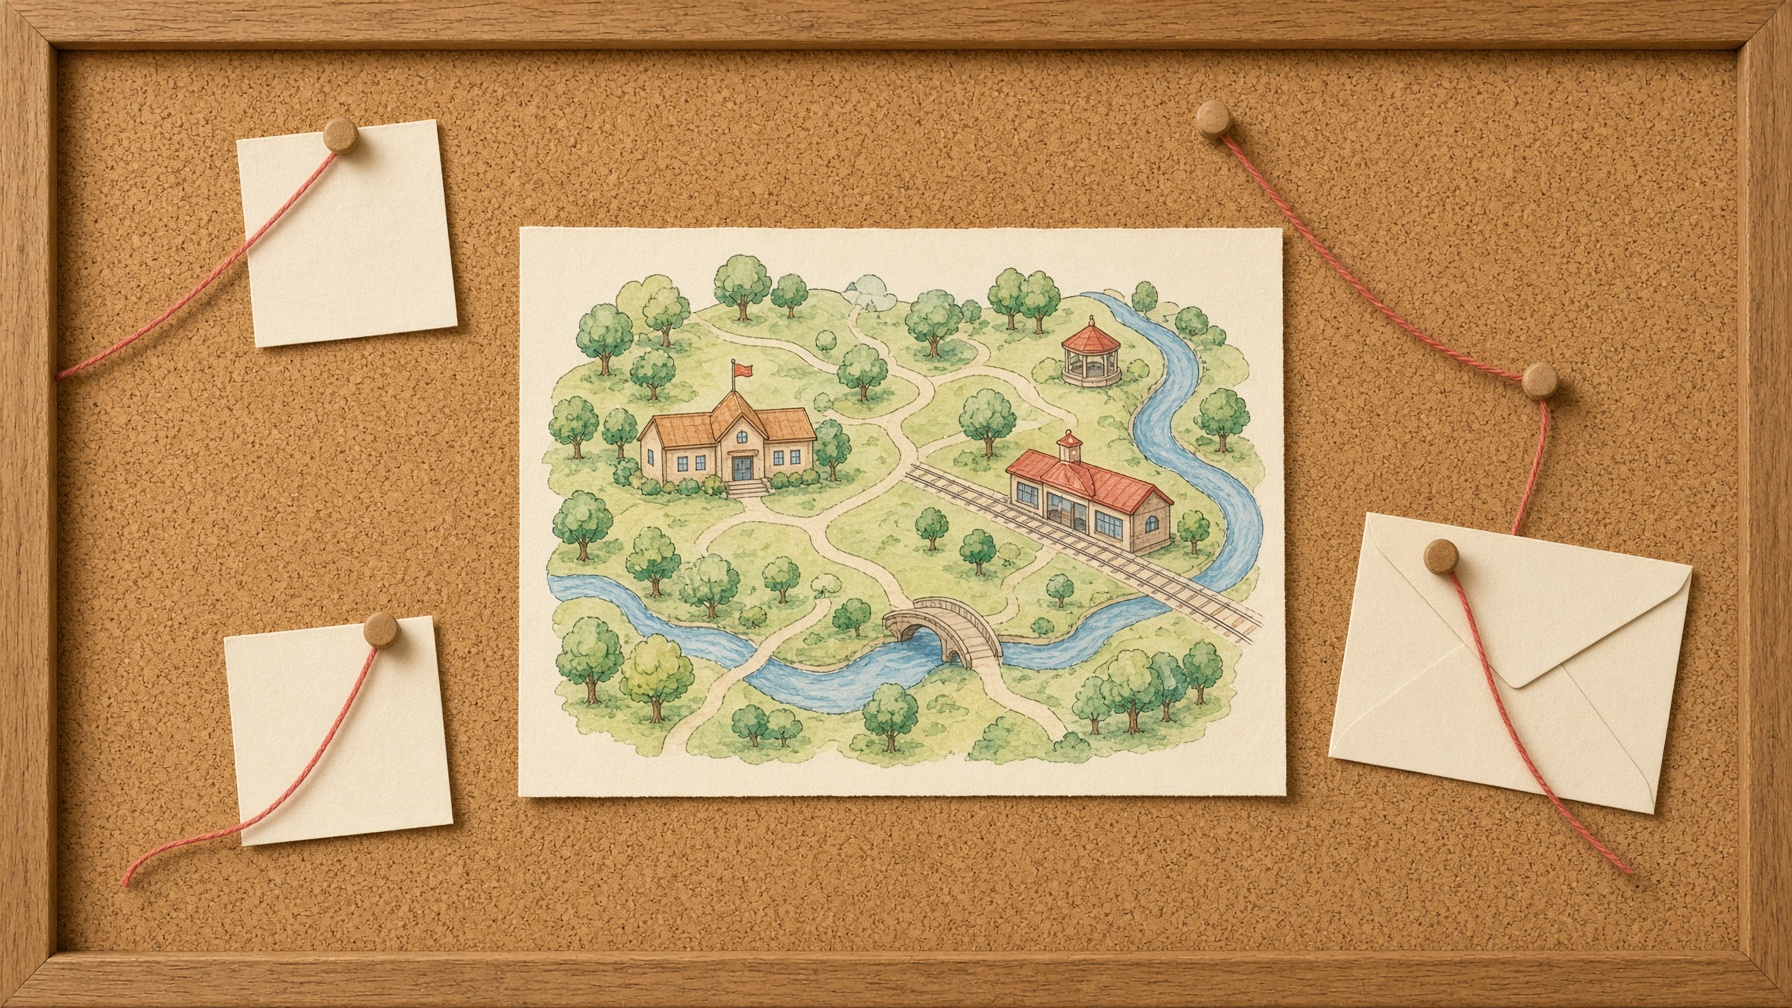
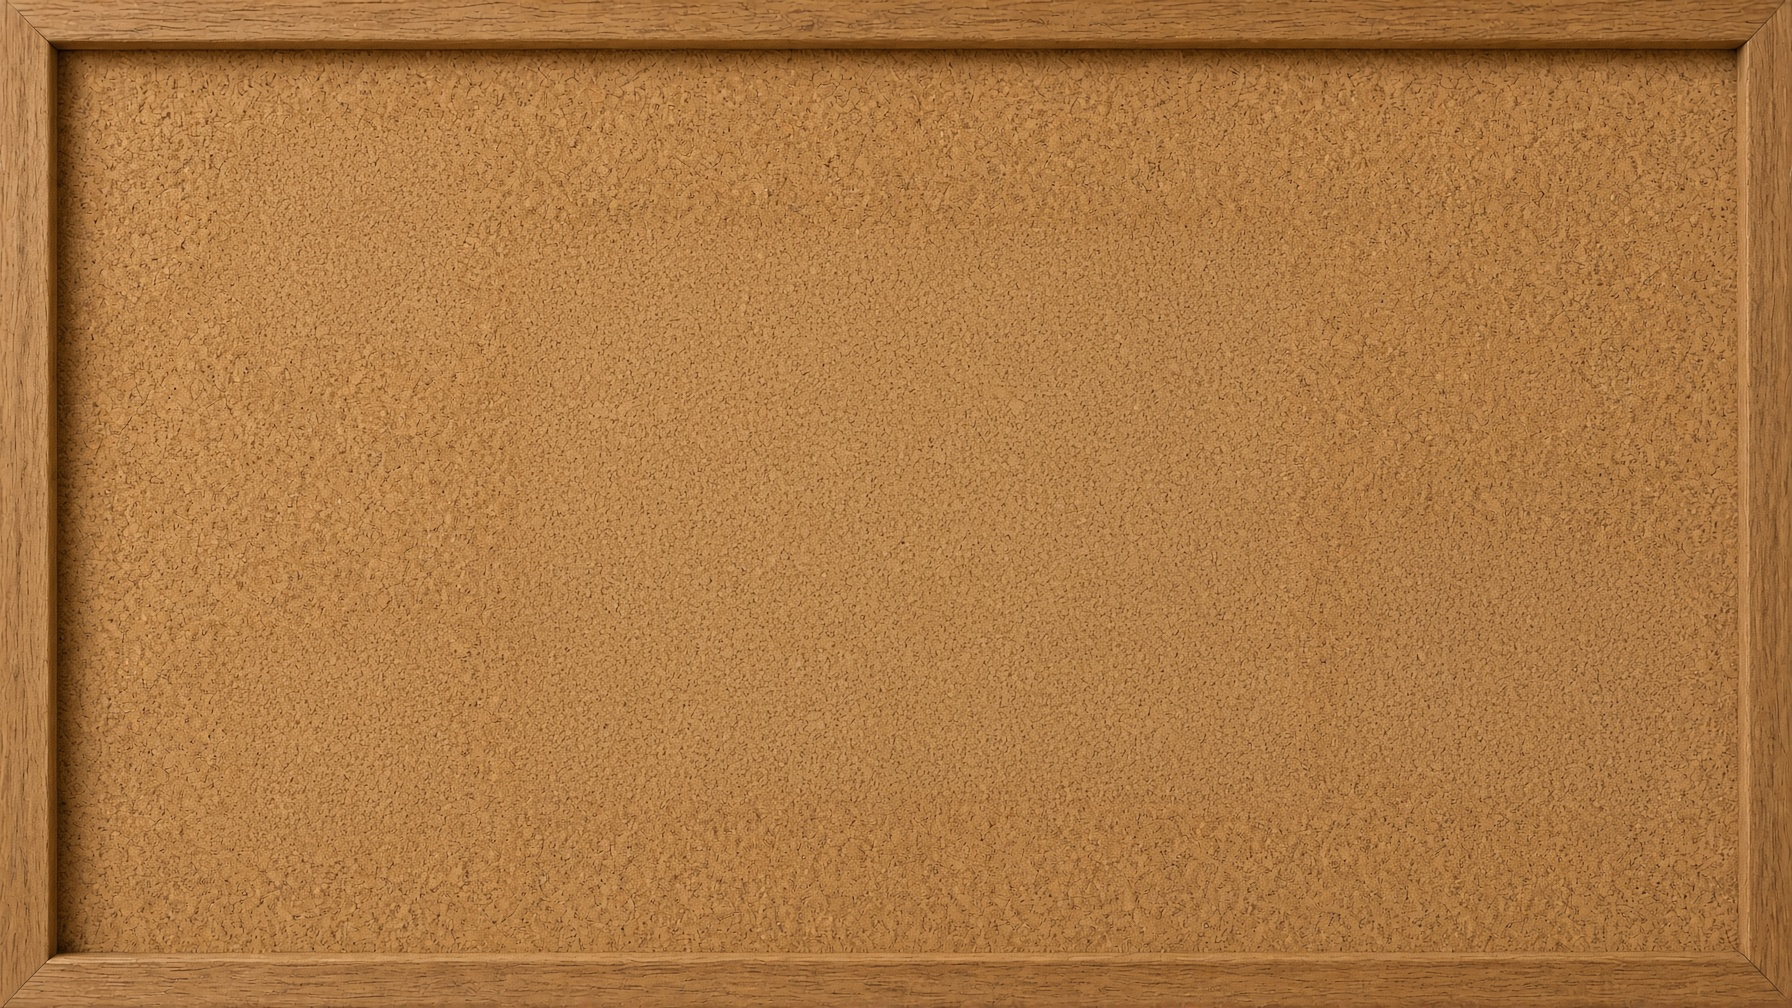
Open the map with a moving envelope and reveal each mission in turn.
The cork board no longer shows the town drawing. Closing the letter uncovers mission 1, readers spell the calm riddle, younger children choose a picture, and narration starts off.

diff --git a/src/screens/Early.tsx b/src/screens/Early.tsx
@@ -5,10 +5,10 @@ import { blip } from "../lib/sound";
 import { useSession } from "../state/sessionStore";
 import type { MissionId } from "../config/gameConfig";
 
-const PINS: { id: MissionId; title: string; x: string; y: string; ax: string; ay: string }[] = [
-  { id: 1, title: "Sala de las cartas", x: "20%", y: "34%", ax: "24%", ay: "58%" },
-  { id: 2, title: "Puesto de escucha", x: "80%", y: "32%", ax: "74%", ay: "56%" },
-  { id: 3, title: "Archivo de las huellas", x: "18%", y: "70%", ax: "26%", ay: "84%" },
+const PINS: { id: MissionId; title: string; label: string; x: string; y: string; ax: string; ay: string }[] = [
+  { id: 1, title: "Sala de las cartas", label: "Misión 01", x: "30%", y: "48%", ax: "38%", ay: "70%" },
+  { id: 2, title: "Puesto de escucha", label: "Misión 02", x: "68%", y: "44%", ax: "60%", ay: "68%" },
+  { id: 3, title: "Archivo de las huellas", label: "Misión 03", x: "28%", y: "76%", ax: "38%", ay: "84%" },
 ];
 
 export function CoverSetup() {
@@ -92,16 +92,28 @@ export function IntroVideo() {
 
 export function MapScreen() {
   const session = useSession();
-  const { mode, participants, selectedAgents, names, missions, cluesFound, reducedMotion } = session.persisted;
+  const { mode, participants, selectedAgents, names, missions, reducedMotion, activity } = session.persisted;
+  const tutorial = activity.tutorial ?? { hinted: false, opened: false, line: 0 };
   const needed = mode === "individual" ? 1 : participants;
   const chosen = selectedAgents.filter((id) => id > 0);
   const castReady = chosen.length >= needed;
   const [recast, setRecast] = useState(false);
-  const [spot, setSpot] = useState({ x: "50%", y: "68%" });
+  const [spot, setSpot] = useState({ x: "50%", y: "88%" });
   const [walking, setWalking] = useState(false);
   const agentId = session.currentAgentId();
   const agent = agentId ? agentById(agentId) : undefined;
-  const showCast = !castReady || recast;
+  const letterClosed = tutorial.line >= 1
+    || missions[1] !== "pending"
+    || missions[2] !== "pending"
+    || missions[3] !== "pending";
+  const visiblePins = PINS.filter((pin) => {
+    if (pin.id === 1) return letterClosed;
+    if (pin.id === 2) return missions[1] === "completed" || missions[1] === "skipped";
+    return missions[2] === "completed" || missions[2] === "skipped";
+  });
+  const showCase = missions[3] === "completed" || missions[3] === "skipped";
+  const nextPin = visiblePins.find((pin) => missions[pin.id] === "pending" || missions[pin.id] === "exploring");
+  const showCast = (!castReady || recast) && !tutorial.opened;
 
   const travel = (next: { x: string; y: string }, after: () => void) => {
     if (walking) return;
@@ -143,35 +155,59 @@ export function MapScreen() {
     <section className="world">
       <img className="cover-blur" src="/assets/map/tablero.jpg" alt="" />
       <div className="board">
-        <img src="/assets/map/tablero.jpg" alt="Tablero de corcho con un mapa del pueblo" />
-        <svg className="strings" viewBox="0 0 100 100" preserveAspectRatio="none" aria-hidden="true">
-          <path d="M50 78 C 36 60, 28 48, 20 36" />
-          <path d="M50 78 C 64 58, 72 46, 80 34" />
-          <path d="M50 78 C 34 82, 24 78, 18 70" />
-          <path d="M50 78 C 66 80, 74 74, 82 62" />
-        </svg>
-        {PINS.map((pin) => (
+        <img src="/assets/map/tablero.jpg" alt="Tablero de corcho" />
+        <h2 className="map-title">Mapa de misiones</h2>
+        {(visiblePins.length > 0 || showCase) && (
+          <svg className="strings" viewBox="0 0 100 100" preserveAspectRatio="none" aria-hidden="true">
+            {visiblePins.map((pin) => {
+              const x = parseFloat(pin.x);
+              const y = parseFloat(pin.y);
+              return <path key={pin.id} d={`M78 24 Q ${(78 + x) / 2} ${(24 + y) / 2}, ${x} ${y}`} />;
+            })}
+            {showCase && <path d="M78 24 Q 76 50, 74 74" />}
+          </svg>
+        )}
+        <button
+          type="button"
+          className={`secret-mail${letterClosed ? " parked" : " invite"}${tutorial.opened ? " open" : ""}${reducedMotion ? " still" : ""}`}
+          style={letterClosed ? { left: "78%", top: "24%" } : { left: "50%", top: "52%" }}
+          aria-label="Abrir el sobre"
+          aria-hidden={tutorial.opened || undefined}
+          onClick={() => {
+            if (tutorial.opened) return;
+            session.openTutorialLetter();
+            blip(session.persisted.sounds);
+          }}
+        >
+          <span className="mail-body">
+            <span className="flap" />
+            <span className="seal" />
+          </span>
+        </button>
+        {visiblePins.map((pin) => (
           <button
             key={pin.id}
             type="button"
-            className={`pin status-${missions[pin.id]}`}
+            className={`pin pop status-${missions[pin.id]}${nextPin?.id === pin.id ? " is-next" : ""}`}
             style={{ left: pin.x, top: pin.y }}
             onClick={() => openMission(pin.id)}
           >
-            <b>{pin.id}</b>
+            <b>{pin.label}</b>
             <span>{pin.title}</span>
             <small>{missions[pin.id] === "completed" ? (pin.id === 1 ? "Carta 4" : pin.id === 2 ? "Radio 7" : "Huellas 2") : statusLabel(missions[pin.id])}</small>
           </button>
         ))}
-        <button
-          type="button"
-          className={Object.keys(cluesFound).length === 3 ? "pin case ready" : "pin case"}
-          style={{ left: "82%", top: "62%" }}
-          onClick={() => travel({ x: "74%", y: "78%" }, () => session.setScreen("P23"))}
-        >
-          <b>{Object.keys(cluesFound).length}/3</b>
-          <span>Maletín</span>
-        </button>
+        {showCase && (
+          <button
+            type="button"
+            className="pin case ready pop"
+            style={{ left: "74%", top: "74%" }}
+            onClick={() => travel({ x: "66%", y: "84%" }, () => session.setScreen("P23"))}
+          >
+            <b>3/3</b>
+            <span>Maletín</span>
+          </button>
+        )}
         {agent && !showCast && (
           <button
             type="button"
@@ -185,6 +221,14 @@ export function MapScreen() {
           </button>
         )}
       </div>
+      {tutorial.opened && (
+        <div className="mission-letter" role="dialog" aria-label="Carta de la primera misión">
+          <p>Agente, dirígete a la primera misión.</p>
+          <p>Descubre allí la palabra secreta.</p>
+          <p>Esa pista te ayudará a descubrir el código secreto.</p>
+          <button type="button" onClick={() => { session.closeTutorialLetter(); blip(session.persisted.sounds); }}>Cerrar el sobre</button>
+        </div>
+      )}
       {showCast && (
         <div className="picker">
           <div className="name-slip">

diff --git a/src/screens/Mission1.tsx b/src/screens/Mission1.tsx
@@ -4,11 +4,42 @@ import { blip } from "../lib/sound";
 import { placeTile } from "../state/logic";
 import { useSession } from "../state/sessionStore";
 
+function CalmMark() {
+  return (
+    <svg viewBox="0 0 80 64" aria-hidden="true">
+      <circle cx="40" cy="28" r="16" fill="#f6e2a8" stroke="#2b2155" strokeWidth="2.5" />
+      <path d="M32 28 h5 M43 28 h5" stroke="#2b2155" strokeWidth="2.5" strokeLinecap="round" />
+      <path d="M34 34 q6 4 12 0" fill="none" stroke="#e07a5f" strokeWidth="2.5" strokeLinecap="round" />
+      <path d="M14 48 q10 -8 20 0 t20 0 t16 -2" fill="none" stroke="#2b2155" strokeWidth="2.5" strokeLinecap="round" />
+    </svg>
+  );
+}
+
+function SweetMark() {
+  return (
+    <svg viewBox="0 0 80 64" aria-hidden="true">
+      <rect x="18" y="22" width="18" height="22" rx="4" fill="#e07a5f" stroke="#2b2155" strokeWidth="2.5" />
+      <rect x="40" y="18" width="18" height="22" rx="4" fill="#e6b84c" stroke="#2b2155" strokeWidth="2.5" />
+      <path d="M27 22 v22 M49 18 v22" stroke="#fffaf3" strokeWidth="2" />
+    </svg>
+  );
+}
+
+function HitMark() {
+  return (
+    <svg viewBox="0 0 80 64" aria-hidden="true">
+      <path d="M22 40 q8 -18 16 -8 l6 8" fill="#f4f1de" stroke="#2b2155" strokeWidth="2.5" strokeLinejoin="round" />
+      <path d="M44 36 h22" stroke="#2b2155" strokeWidth="3" strokeLinecap="round" />
+      <path d="M58 28 l8 8 l-8 8" fill="none" stroke="#e07a5f" strokeWidth="2.5" strokeLinecap="round" strokeLinejoin="round" />
+    </svg>
+  );
+}
+
 export function Mission1() {
   const session = useSession();
   const explorers = session.persisted.level === "exploradores";
-  const { pool, slots, doorOpen } = session.persisted.activity.m1;
-  const learn = () => {
+  const { pool, slots } = session.persisted.activity.m1;
+  const found = () => {
     session.solveRiddle();
     session.finishMission(1);
     session.setScreen("P06");
@@ -19,11 +50,29 @@ export function Mission1() {
     <section className="play">
       <Hud title="Sala de las cartas" />
       <div className="play-layout">
-        <Companion pose={doorOpen ? "happy" : "idle"} />
+        <Companion pose="idle" />
         <div className="dossier">
-          {!doorOpen && (
+          {explorers ? (
             <>
-              <p className="lead">La puerta espera una palabra. Forma CALMA. Las dos A valen igual.</p>
+              <p className="riddle">La siento al respirar,{"\n"}la siento al descansar.{"\n"}Si me enojo, voy a buscar{"\n"}esa palabra y no pegar.</p>
+              <div className="visual-choices">
+                <button type="button" className="vchoice" onClick={found}>
+                  <CalmMark />
+                  <span>Calma</span>
+                </button>
+                <button type="button" className="vchoice" onClick={() => session.setFeedback("Los dulces son ricos, pero no son la palabra. Escucha otra vez y elige de nuevo.")}>
+                  <SweetMark />
+                  <span>Dulces</span>
+                </button>
+                <button type="button" className="vchoice" onClick={() => session.setFeedback("Pegar no ayuda a seguir. Busca lo que sientes cuando respiras despacito.")}>
+                  <HitMark />
+                  <span>Pegar</span>
+                </button>
+              </div>
+            </>
+          ) : (
+            <>
+              <p className="riddle">Una palabra que me da paz,{"\n"}cinco letras y no más.{"\n"}Una emoción que rima con alma.{"\n"}Empieza con C y la palabra es…</p>
               <LetterBoard
                 pool={pool}
                 slots={slots}
@@ -37,30 +86,12 @@ export function Mission1() {
                   session.placeM1(id);
                   blip(session.persisted.sounds);
                   const word = next.slots.map((slot) => slot?.char ?? "").join("");
-                  if (next.slots.every(Boolean) && word !== CALMA) {
-                    session.setFeedback("Todavía no dice CALMA. Toca una letra para probar otra. Tu turno sigue igual.");
-                  }
+                  if (!next.slots.every(Boolean)) return;
+                  if (word === CALMA) found();
+                  else session.setFeedback("Todavía no es esa palabra. Empieza con C y rima con alma. Tu turno sigue igual.");
                 }}
                 onRemove={(index) => session.returnM1(index)}
               />
-            </>
-          )}
-          {doorOpen && (
-            <>
-              <p className="lead">La puerta se abrió. Encontramos Carta, 4. Cuando algo cuesta, ¿qué ayuda?</p>
-              {explorers ? (
-                <>
-                  <button type="button" className="choice" onClick={learn}>Parar y mirar</button>
-                  <button type="button" className="choice" onClick={() => session.setFeedback("Golpear no cuida la pista. Puedes elegir otra forma.")}>Golpear la mesa</button>
-                  <button type="button" className="choice" onClick={() => session.setFeedback("Empujar todo puede desordenar. Podemos mirar de otra forma.")}>Apartar todo de un empujón</button>
-                </>
-              ) : (
-                <>
-                  <button type="button" className="choice" onClick={learn}>Parar, notar y pensar</button>
-                  <button type="button" className="choice" onClick={() => session.setFeedback("La prisa empuja a hacerlo ya. Esta puerta se abrió con calma.")}>Hacerlo con prisa</button>
-                  <button type="button" className="choice" onClick={() => session.setFeedback("El ruido no abre la puerta. Busquemos otra opción.")}>Hacer ruido</button>
-                </>
-              )}
             </>
           )}
         </div>

diff --git a/src/styles.css b/src/styles.css
@@ -449,3 +449,68 @@ details summary { min-height: var(--tap); display: flex; align-items: center; fo
   .walker { width: 78px; }
   .walker img { height: 110px; }
 }
+
+.letter-board { display: flex; flex-direction: column; align-items: center; gap: 12px; width: 100%; align-self: center; }
+.letter-board .slots, .letter-board .tray { display: flex; flex-wrap: wrap; gap: 8px; justify-content: center; align-items: center; width: 100%; }
+.letter-board .letter {
+  width: 56px; height: 56px; min-width: 48px; min-height: 48px; max-height: 56px;
+  padding: 0; flex: 0 0 auto; display: inline-flex; align-items: center; justify-content: center; line-height: 1;
+}
+.letter-board .letter.wide { width: auto; min-width: 148px; height: 64px; max-height: 64px; padding: 0 16px; }
+.riddle { margin: 0; white-space: pre-line; font-size: clamp(1.05rem, 2.2cqw, 1.35rem); font-weight: 800; line-height: 1.45; color: var(--indigo); }
+.visual-choices { display: flex; flex-wrap: wrap; gap: 10px; justify-content: center; }
+.vchoice {
+  width: 148px; min-height: 156px; border-radius: 18px; border: 3px solid var(--indigo);
+  background: white; color: var(--indigo); display: flex; flex-direction: column; align-items: center; justify-content: center; gap: 6px;
+  font-weight: 800; font-size: 1.15rem; padding: 8px;
+}
+.vchoice svg { width: 88px; height: 72px; }
+.map-title {
+  position: absolute; z-index: 5; top: 5%; left: 50%; translate: -50% 0; margin: 0;
+  padding: 8px 18px 10px; background: #f7f3ea; color: var(--ink);
+  font-size: clamp(1.05rem, 2.8cqw, 1.75rem); font-weight: 800;
+  box-shadow: 0 8px 16px rgba(30, 24, 48, 0.18);
+  clip-path: polygon(1% 8%, 6% 0, 94% 3%, 100% 12%, 98% 90%, 92% 100%, 4% 96%, 0 86%);
+  rotate: -1.5deg; pointer-events: none;
+}
+.secret-mail {
+  position: absolute; translate: -50% -50%; z-index: 4;
+  width: min(34%, 280px); aspect-ratio: 3 / 2; border: 0; padding: 0;
+  background: transparent; color: inherit;
+}
+.secret-mail .mail-body {
+  position: relative; display: block; width: 100%; height: 100%;
+  background: #f4f0e6; border-radius: 6px;
+  box-shadow: 0 14px 24px rgba(30, 24, 48, 0.28), inset 0 0 0 2px rgba(43, 33, 85, 0.18);
+}
+.secret-mail .flap { height: 58%; background: #e7e0d2; clip-path: polygon(0 0, 100% 0, 50% 100%); transition: transform 0.35s ease; }
+.secret-mail .seal {
+  width: 22%; aspect-ratio: 1; height: auto; left: 39%; top: 46%;
+  background: var(--coral); border: 3px solid #9d4636; box-shadow: inset 0 0 0 3px rgba(255, 250, 243, 0.35);
+}
+.secret-mail.open { pointer-events: none; }
+.secret-mail.parked { width: min(20%, 150px); }
+.secret-mail.invite .mail-body { animation: mail-invite 1.15s ease-in-out infinite; transform-origin: 50% 80%; }
+.secret-mail.open .flap { transform: translateY(-18%) rotateX(50deg); transform-origin: top; }
+@keyframes mail-invite {
+  0%, 100% { rotate: -5deg; }
+  40% { rotate: 4deg; translate: 0 -10px; }
+  70% { rotate: -2deg; translate: 0 0; }
+}
+body.reduce .mail-body, .secret-mail.still .mail-body { animation: none; }
+.mission-letter {
+  position: absolute; z-index: 7; left: 50%; top: 54%; translate: -50% -50%;
+  width: min(68%, 480px); background: #fffaf3; color: var(--ink);
+  padding: 22px 22px 16px; display: flex; flex-direction: column; gap: 8px; text-align: center;
+  box-shadow: 0 18px 40px rgba(30, 24, 48, 0.35);
+  clip-path: polygon(0 2%, 3% 0, 97% 1%, 100% 4%, 99% 96%, 96% 100%, 2% 98%, 0 94%);
+}
+.mission-letter p { margin: 0; font-weight: 800; font-size: clamp(1rem, 2.3cqw, 1.35rem); line-height: 1.35; }
+.mission-letter button {
+  margin: 8px auto 0; min-height: var(--tap); min-width: 180px; border: 0; border-radius: 999px;
+  background: var(--coral); color: white; font-weight: 800; font-size: 1rem; padding: 10px 18px;
+}
+.pin.is-next { outline: 3px solid var(--coral); outline-offset: 4px; }
+.pin.pop { animation: pin-pop 0.4s ease; }
+@keyframes pin-pop { from { scale: 0.84; opacity: 0; } to { scale: 1; opacity: 1; } }
+body.reduce .pin.pop { animation: none; }

diff --git a/src/state/sessionStore.tsx b/src/state/sessionStore.tsx
@@ -72,7 +72,7 @@ export function freshPersisted(): Persisted {
     level: "exploradores",
     mode: "individual",
     participants: 2,
-    narration: true,
+    narration: false,
     sounds: true,
     reducedMotion: false,
     selectedAgents: [],
@@ -199,6 +199,7 @@ interface Store {
   setVideo: (src: string | null) => void;
   hintTutorial: () => void;
   openTutorialLetter: () => void;
+  closeTutorialLetter: () => void;
   revealTutorialLine: () => void;
   currentAgentId: () => number | null;
 }
@@ -568,6 +569,18 @@ export function SessionProvider({ children }: { children: ReactNode }) {
       }),
       hintTutorial: () => update((prev) => ({ ...prev, activity: { ...prev.activity, tutorial: { ...prev.activity.tutorial, hinted: true } } })),
       openTutorialLetter: () => update((prev) => ({ ...prev, activity: { ...prev.activity, tutorial: { ...prev.activity.tutorial, opened: true, hinted: true } } })),
+      closeTutorialLetter: () => update((prev) => ({
+        ...prev,
+        activity: {
+          ...prev.activity,
+          tutorial: {
+            ...prev.activity.tutorial,
+            opened: false,
+            hinted: true,
+            line: Math.max(1, prev.activity.tutorial.line),
+          },
+        },
+      })),
       revealTutorialLine: () => update((prev) => ({
         ...prev,
         activity: { ...prev.activity, tutorial: { ...prev.activity.tutorial, line: Math.min(3, prev.activity.tutorial.line + 1) } },

diff --git a/src/config/gameConfig.ts b/src/config/gameConfig.ts
@@ -93,8 +93,8 @@ export const REFLECTIONS = [
 export const LINES: Partial<Record<ScreenId, string>> = {
   P01: "El secreto del maletín. Tres pistas y un secreto por descubrir.",
   P05: "La misión comienza. Un maletín guarda un secreto y tres pistas lo abren.",
-  P06: "Este es el tablero. Elige a tu detective y sigue la primera pista.",
-  P07: "En la sala de las cartas hay una puerta cerrada.",
+  P06: "Mapa de misiones. El sobre cerrado espera que lo abras.",
+  P07: "Escucha el acertijo y descubre la palabra secreta.",
   P08: "Cuando algo cuesta, puedo parar, notar cómo estoy y pensar qué hacer.",
   P12: "En el puesto de escucha, la radio trae dos caminos: paciencia e impulso.",
   P18: "En el archivo hay cuatro momentos de Alma. Hay que ponerlos en orden.",

diff --git a/src/components/ui.tsx b/src/components/ui.tsx
@@ -96,7 +96,7 @@ export function LetterBoard({
   onRemove: (index: number) => void;
 }) {
   return (
-    <div className="board">
+    <div className="letter-board">
       <div className="slots" aria-label="Espacios de la palabra">
         {slots.map((slot, index) => (
           <button key={index} type="button" className={wide ? "letter wide" : "letter"} onClick={() => onRemove(index)}>
